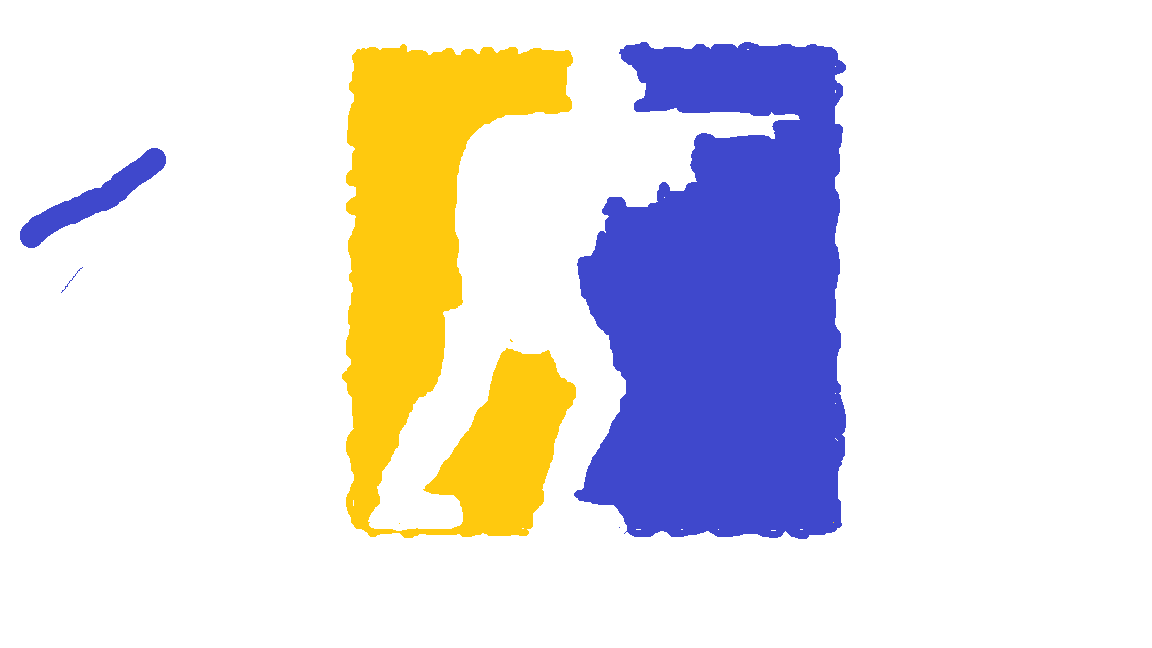
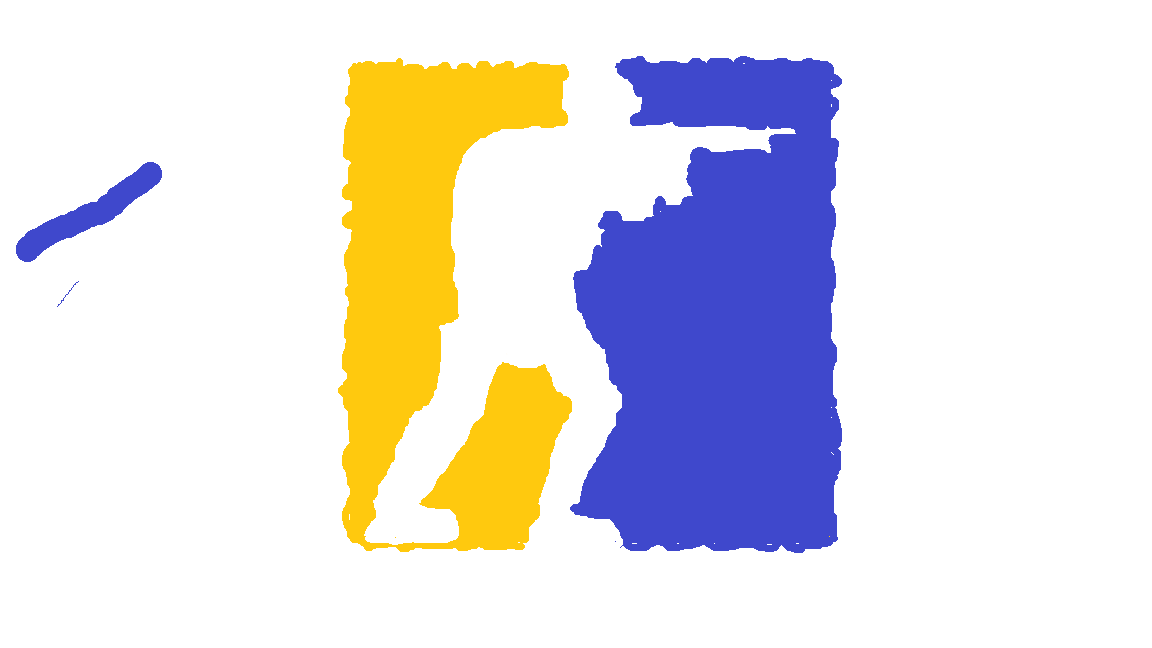
EFN

diff --git a/Server/src/CounterStrikeChannel.java b/Server/src/CounterStrikeChannel.java
@@ -15,7 +15,7 @@ public class CounterStrikeChannel extends ChannelObject{
     public List<PlayerObject> players = new ArrayList<PlayerObject>(); //All players
     List<PlayerObject> playerCopy = new ArrayList<>(); //Just the real players, no chaser
     PlayerObject chaser = null; //chaser
-    boolean[][] map;
+    Color[][] mapColors;
     int mapGridSize = 32;
     int PLAYER_SIZE = 20;
 
@@ -42,11 +42,17 @@ public class CounterStrikeChannel extends ChannelObject{
         else p = new PlayerObject(findValidSpawnPosition(), Color.blue, false);
         players.add(p);
         updatePlayerLists();
+
         String welcomeString = "§cs3 welcome you("+players.indexOf(p)+"):c("+X+","+Y+")";
         String mapString = ":m(s(" + mapGridSize + ")" + "v(";
+
         for(int y = 0; y < mapGridSize; y++) {
             for(int x = 0; x < mapGridSize; x++){
-                mapString += map[y][x] ? "0" : "1";
+                Color color = mapColors[y][x];
+                // Encode color as 6-digit hex (RRGGBB)
+                String hex = String.format("%02X%02X%02X",
+                        color.getRed(), color.getGreen(), color.getBlue());
+                mapString += hex;
             }
         }
         mapString += "))";
@@ -56,13 +62,19 @@ public class CounterStrikeChannel extends ChannelObject{
     private Point findValidSpawnPosition() {
         int tileSize = X / mapGridSize;
         Random rand = new Random();
-        //Chaser spawn
+
+        // Chaser spawn
         if (chaser == null) {
             for (int i = 0; i < 1000; i++) {
                 int tx = rand.nextInt(mapGridSize);
                 int ty = rand.nextInt(mapGridSize);
 
-                if (!map[ty][tx]) {
+                // Check if the tile is walkable (pure white)
+                Color tileColor = mapColors[ty][tx];
+                if (tileColor.getRed() == 255 &&
+                        tileColor.getGreen() == 255 &&
+                        tileColor.getBlue() == 255) {
+
                     int px = tx * tileSize + tileSize / 2 - PLAYER_SIZE / 2;
                     int py = ty * tileSize + tileSize / 2 - PLAYER_SIZE / 2;
                     return new Point(px, py);
@@ -73,7 +85,12 @@ public class CounterStrikeChannel extends ChannelObject{
                 int tx = rand.nextInt(mapGridSize);
                 int ty = rand.nextInt(mapGridSize);
 
-                if (!map[ty][tx]) {
+                // Check if the tile is walkable (pure white)
+                Color tileColor = mapColors[ty][tx];
+                if (tileColor.getRed() == 255 &&
+                        tileColor.getGreen() == 255 &&
+                        tileColor.getBlue() == 255) {
+
                     int px = tx * tileSize + tileSize / 2 - PLAYER_SIZE / 2;
                     int py = ty * tileSize + tileSize / 2 - PLAYER_SIZE / 2;
 
@@ -86,12 +103,18 @@ public class CounterStrikeChannel extends ChannelObject{
                     }
                 }
             }
-            // if nothing found at least 200px away
+
+            // If nothing found at least 200px away
             for (int i = 0; i < 1000; i++) {
                 int tx = rand.nextInt(mapGridSize);
                 int ty = rand.nextInt(mapGridSize);
 
-                if (!map[ty][tx]) {
+                // Check if the tile is walkable (pure white)
+                Color tileColor = mapColors[ty][tx];
+                if (tileColor.getRed() == 255 &&
+                        tileColor.getGreen() == 255 &&
+                        tileColor.getBlue() == 255) {
+
                     int px = tx * tileSize + tileSize / 2 - PLAYER_SIZE / 2;
                     int py = ty * tileSize + tileSize / 2 - PLAYER_SIZE / 2;
 
@@ -102,10 +125,16 @@ public class CounterStrikeChannel extends ChannelObject{
                 }
             }
         }
-        //Fallback
+
+        // Fallback - search all tiles systematically
         for (int ty = 0; ty < mapGridSize; ty++) {
             for (int tx = 0; tx < mapGridSize; tx++) {
-                if (!map[ty][tx]) {
+                // Check if the tile is walkable (pure white)
+                Color tileColor = mapColors[ty][tx];
+                if (tileColor.getRed() == 255 &&
+                        tileColor.getGreen() == 255 &&
+                        tileColor.getBlue() == 255) {
+
                     int px = tx * tileSize + tileSize / 2 - PLAYER_SIZE / 2;
                     int py = ty * tileSize + tileSize / 2 - PLAYER_SIZE / 2;
                     return new Point(px, py);
@@ -113,7 +142,7 @@ public class CounterStrikeChannel extends ChannelObject{
             }
         }
 
-        // Ultimate fallback to center
+        // Ultimate fallback to center (even if it's not walkable)
         return new Point(X/2 - PLAYER_SIZE/2, Y/2 - PLAYER_SIZE/2);
     }
 
@@ -196,34 +225,24 @@ public class CounterStrikeChannel extends ChannelObject{
     }
     public void loadMapFromFile(String path) throws IOException {
         BufferedImage img = ImageIO.read(new File(path));
-
-        //if(img.getWidth() != mapGridSize || img.getHeight() != mapGridSize) {
-        //    throw new IllegalArgumentException("Invalid map size, use: [" + mapGridSize + ", " + mapGridSize + "]");
-        //}
-
-        boolean[][] tempMap = new boolean[mapGridSize][mapGridSize];
+        Color[][] tempMap = new Color[mapGridSize][mapGridSize];
 
         for(int y = 0; y < mapGridSize; y++){
             for(int x = 0; x < mapGridSize; x++){
                 int rgb = img.getRGB(x, y);
-                int r = (rgb >> 16) & 0xFF;
-                int g = (rgb >> 8) & 0xFF;
-                int b = rgb & 0xFF;
-
-                tempMap[y][x] = !(r == 255 && g == 255 && b == 255);
+                Color color = new Color(rgb);
+                tempMap[y][x] = color;
             }
         }
-        map = tempMap;
+        mapColors = tempMap;
     }
     boolean isSolid(int px, int py) {
-        // Player is a circle with radius 10 (since PLAYER_SIZE = 20)
+        // Pure white (255,255,255) is walkable, everything else is solid
         int playerRadius = 10;
         int playerCenterX = px + playerRadius;
         int playerCenterY = py + playerRadius;
-
         int tileSize = X / mapGridSize;
 
-        // Check all tiles the player circle could intersect
         int minTileX = Math.max(0, (playerCenterX - playerRadius) / tileSize);
         int maxTileX = Math.min(mapGridSize - 1, (playerCenterX + playerRadius) / tileSize);
         int minTileY = Math.max(0, (playerCenterY - playerRadius) / tileSize);
@@ -231,30 +250,30 @@ public class CounterStrikeChannel extends ChannelObject{
 
         for (int tileY = minTileY; tileY <= maxTileY; tileY++) {
             for (int tileX = minTileX; tileX <= maxTileX; tileX++) {
-                if (map[tileY][tileX]) { // Tile is solid
-                    // Tile bounds
+                Color tileColor = mapColors[tileY][tileX];
+                // Check if NOT pure white (walkable)
+                if (!(tileColor.getRed() == 255 &&
+                        tileColor.getGreen() == 255 &&
+                        tileColor.getBlue() == 255)) {
+
                     int tileLeft = tileX * tileSize;
                     int tileRight = tileLeft + tileSize;
                     int tileTop = tileY * tileSize;
                     int tileBottom = tileTop + tileSize;
 
-                    // Find closest point on tile to player center
                     int closestX = clamp(playerCenterX, tileLeft, tileRight);
                     int closestY = clamp(playerCenterY, tileTop, tileBottom);
 
-                    // Calculate distance
                     int dx = playerCenterX - closestX;
                     int dy = playerCenterY - closestY;
                     int distanceSquared = dx * dx + dy * dy;
 
-                    // Check if circle intersects rectangle
                     if (distanceSquared < playerRadius * playerRadius) {
                         return true;
                     }
                 }
             }
         }
-
         return false;
     }
 
@@ -266,24 +285,24 @@ public class CounterStrikeChannel extends ChannelObject{
         int playerRadius = 10;
         int playerCenterX = p.x + playerRadius;
         int playerCenterY = p.y + playerRadius;
-
         int tileSize = X / mapGridSize;
 
-        // Find which tile the player is colliding with
         for (int tileY = 0; tileY < mapGridSize; tileY++) {
             for (int tileX = 0; tileX < mapGridSize; tileX++) {
-                if (map[tileY][tileX]) { // Solid tile
-                    // Tile bounds
+                Color tileColor = mapColors[tileY][tileX];
+                // Check if NOT pure white (solid)
+                if (!(tileColor.getRed() == 255 &&
+                        tileColor.getGreen() == 255 &&
+                        tileColor.getBlue() == 255)) {
+
                     int tileLeft = tileX * tileSize;
                     int tileRight = tileLeft + tileSize;
                     int tileTop = tileY * tileSize;
                     int tileBottom = tileTop + tileSize;
 
-                    // Find closest point on tile to player center
                     int closestX = clamp(playerCenterX, tileLeft, tileRight);
                     int closestY = clamp(playerCenterY, tileTop, tileBottom);
 
-                    // Calculate distance
                     int dx = playerCenterX - closestX;
                     int dy = playerCenterY - closestY;
                     int distanceSquared = dx * dx + dy * dy;

diff --git a/Client/src/CounterStrike3Manager.java b/Client/src/CounterStrike3Manager.java
@@ -21,7 +21,7 @@ public class CounterStrike3Manager {
     int PLAYER_SIZE = 20;
 
     private int mapGridSize;
-    private boolean[][] map;
+    private Color[][] mapColors;
 
     public CounterStrike3Manager(ClientApplication clientApp) {
         this.clientApp = clientApp;
@@ -217,14 +217,8 @@ public class CounterStrike3Manager {
             return false;
         }
 
-        if (map != null && mapGridSize > 0) {
-            int tileSize = canvasWidth / mapGridSize; // Actual tile size in pixels
-
-            // Check for exact divisibility
-            if (canvasWidth % mapGridSize != 0) {
-                System.err.println("WARNING: canvasWidth " + canvasWidth +
-                        " not divisible by mapGridSize " + mapGridSize);
-            }
+        if (mapColors != null && mapGridSize > 0) {
+            int tileSize = canvasWidth / mapGridSize;
 
             int minTileX = Math.max(0, (playerCenterX - playerRadius) / tileSize);
             int maxTileX = Math.min(mapGridSize - 1, (playerCenterX + playerRadius) / tileSize);
@@ -233,7 +227,12 @@ public class CounterStrike3Manager {
 
             for (int tileY = minTileY; tileY <= maxTileY; tileY++) {
                 for (int tileX = minTileX; tileX <= maxTileX; tileX++) {
-                    if (map[tileY][tileX]) {
+                    Color tileColor = mapColors[tileY][tileX];
+                    // Check if NOT pure white (solid)
+                    if (!(tileColor.getRed() == 255 &&
+                            tileColor.getGreen() == 255 &&
+                            tileColor.getBlue() == 255)) {
+
                         int tileLeft = tileX * tileSize;
                         int tileRight = tileLeft + tileSize;
                         int tileTop = tileY * tileSize;
@@ -308,29 +307,28 @@ public class CounterStrike3Manager {
                 int mapStart = data.indexOf(":m(") + 3;
                 String mapData = data.substring(mapStart);
 
-                // Extract grid size: "s(32)"
+                // Extract grid size
                 int gridStart = mapData.indexOf("s(") + 2;
                 int gridEnd = mapData.indexOf(")", gridStart);
                 mapGridSize = Integer.parseInt(mapData.substring(gridStart, gridEnd));
 
-                // Extract map values: "v(...)"
+                // Extract color values
                 int valuesStart = mapData.indexOf("v(") + 2;
                 int valuesEnd = mapData.indexOf(")", valuesStart);
-                String mapValues = mapData.substring(valuesStart, valuesEnd);
+                String colorValues = mapData.substring(valuesStart, valuesEnd);
 
-                map = new boolean[mapGridSize][mapGridSize];
+                mapColors = new Color[mapGridSize][mapGridSize];
                 int index = 0;
                 for (int y = 0; y < mapGridSize; y++) {
                     for (int x = 0; x < mapGridSize; x++) {
-                        if (index < mapValues.length()) {
-                            map[y][x] = mapValues.charAt(index) == '0';
-                            index++;
+                        if (index + 5 < colorValues.length()) {
+                            String hex = colorValues.substring(index, index + 6);
+                            int rgb = Integer.parseInt(hex, 16);
+                            mapColors[y][x] = new Color(rgb);
+                            index += 6;
                         }
                     }
                 }
-
-                System.out.println("Map loaded: " + mapGridSize + "x" + mapGridSize +
-                        " with " + mapValues.length() + " values");
             }
 
             // Add initial player data
@@ -439,25 +437,33 @@ public class CounterStrike3Manager {
         }
 
         private void drawMap(Graphics2D g2d) {
-            if (map == null || mapGridSize <= 0) return;
+            if (mapColors == null || mapGridSize <= 0) return;
 
-            int tileSize = canvasWidth / mapGridSize; // Actual pixel size of tiles
-
+            int tileSize = canvasWidth / mapGridSize;
 
             for (int y = 0; y < mapGridSize; y++) {
                 for (int x = 0; x < mapGridSize; x++) {
                     int tileX = x * tileSize;
                     int tileY = y * tileSize;
 
-                    if (map[y][x]) { // If solid (true)
-                        g2d.setColor(new Color(100, 100, 100, 200)); // Gray for walls
-                        g2d.fillRect(tileX, tileY, tileSize, tileSize);
-                        g2d.setColor(Color.DARK_GRAY);
-                        g2d.drawRect(tileX, tileY, tileSize, tileSize);
-                    } else {
-                        g2d.setColor(new Color(200, 200, 200, 50)); // Light color for passable
+                    Color tileColor = mapColors[y][x];
+
+                    // Draw the actual color from the map
+                    g2d.setColor(tileColor);
+                    g2d.fillRect(tileX, tileY, tileSize, tileSize);
+
+                    // Add transparency for walkable areas (pure white)
+                    if (tileColor.getRed() == 255 &&
+                            tileColor.getGreen() == 255 &&
+                            tileColor.getBlue() == 255) {
+                        // Walkable area - make semi-transparent
+                        g2d.setColor(new Color(255, 255, 255, 50));
                         g2d.fillRect(tileX, tileY, tileSize, tileSize);
                     }
+
+                    // Draw grid lines
+                    //g2d.setColor(Color.DARK_GRAY);
+                    //g2d.drawRect(tileX, tileY, tileSize, tileSize);
                 }
             }
         }

diff --git a/Server/src/Server.java b/Server/src/Server.java
@@ -52,7 +52,7 @@ public class Server {
         channels.add(new ChannelObject("Main",true,true, new String[]{"Welcome to the Main channel, everyone can chat here.","!! Beware off diddy bluds!"}));
         channels.add(new ChannelObject("Chat",true,false, new String[]{"This is a channel can only be used by non anonym users"}));
         channels.add(new PixelChannel("R/Placeoderso",false,false,new String[]{"This is a Pixel-Channel, here you can place pixels on the canvas, as long as your client supports it."},26,20));
-        channels.add(new CounterStrikeChannel(this,"CS",false,false,null,true,640,640, "Server/src/maps/map.png"));
+        channels.add(new CounterStrikeChannel(this,"CS",false,false,null,true,640,640, "Server/src/maps/map3.png"));
         System.out.println("Channels initialized.");
     }
 
